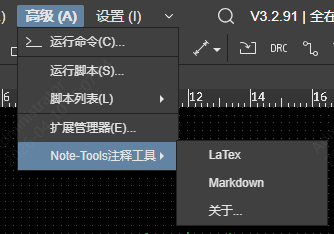
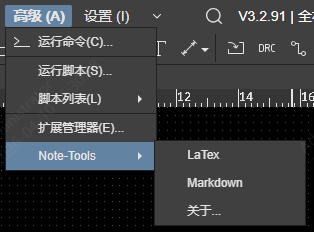
docs: Update navigation menu references

diff --git a/README.en.md b/README.en.md
@@ -11,5 +11,5 @@ JLCPCB EDA & EasyEDA Pro support Markdown & LaTeX comment tools.
 1. Import the docs-tools.eext extension file in "Advanced" - "Extension Manager".
 ![alt text](images/3.png)
 
-2. Enter the PCB interface, click on "DocsTools" in the top navigation bar, and select the required function.
+2. Enter the PCB interface, click on "Advanced"-"Note-Tools" in the top navigation bar, and select the required function.
 ![alt text](images/4.png)

diff --git a/README.md b/README.md
@@ -14,5 +14,5 @@
 1.在"高级"-"扩展管理器"中导入docs-tools.eext扩展文件。
 ![alt text](images/3.png)
 
-2.进入PCB界面，点击顶部导航栏"DocsTools"选择需要的功能即可。
+2.进入PCB界面，点击顶部导航栏"高级"-"Note-Tools"选择需要的功能即可。
 ![alt text](images/4.png)
